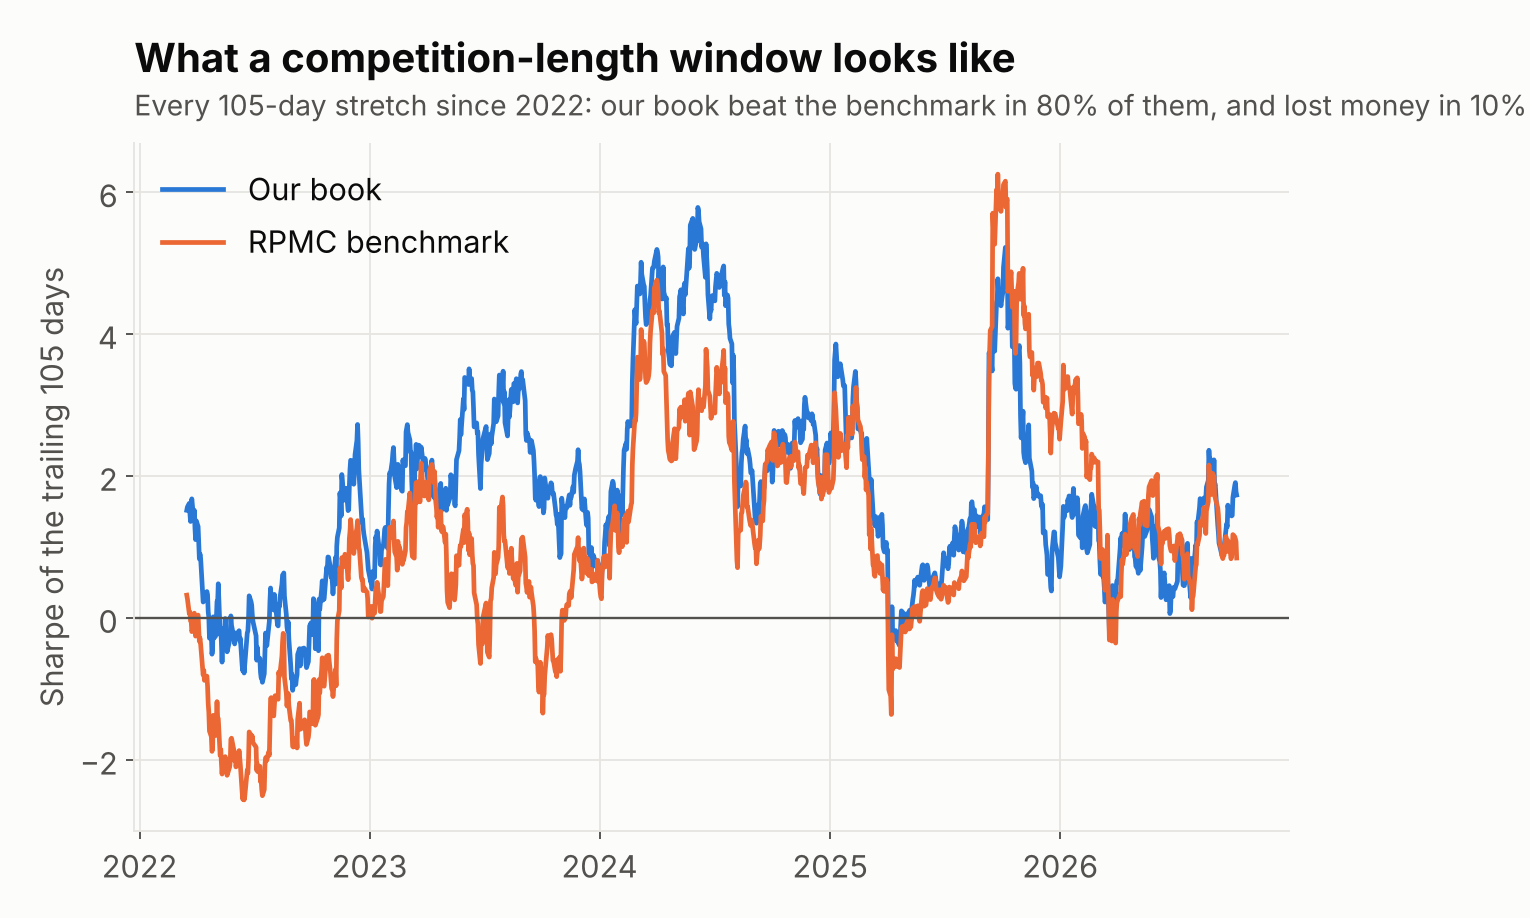
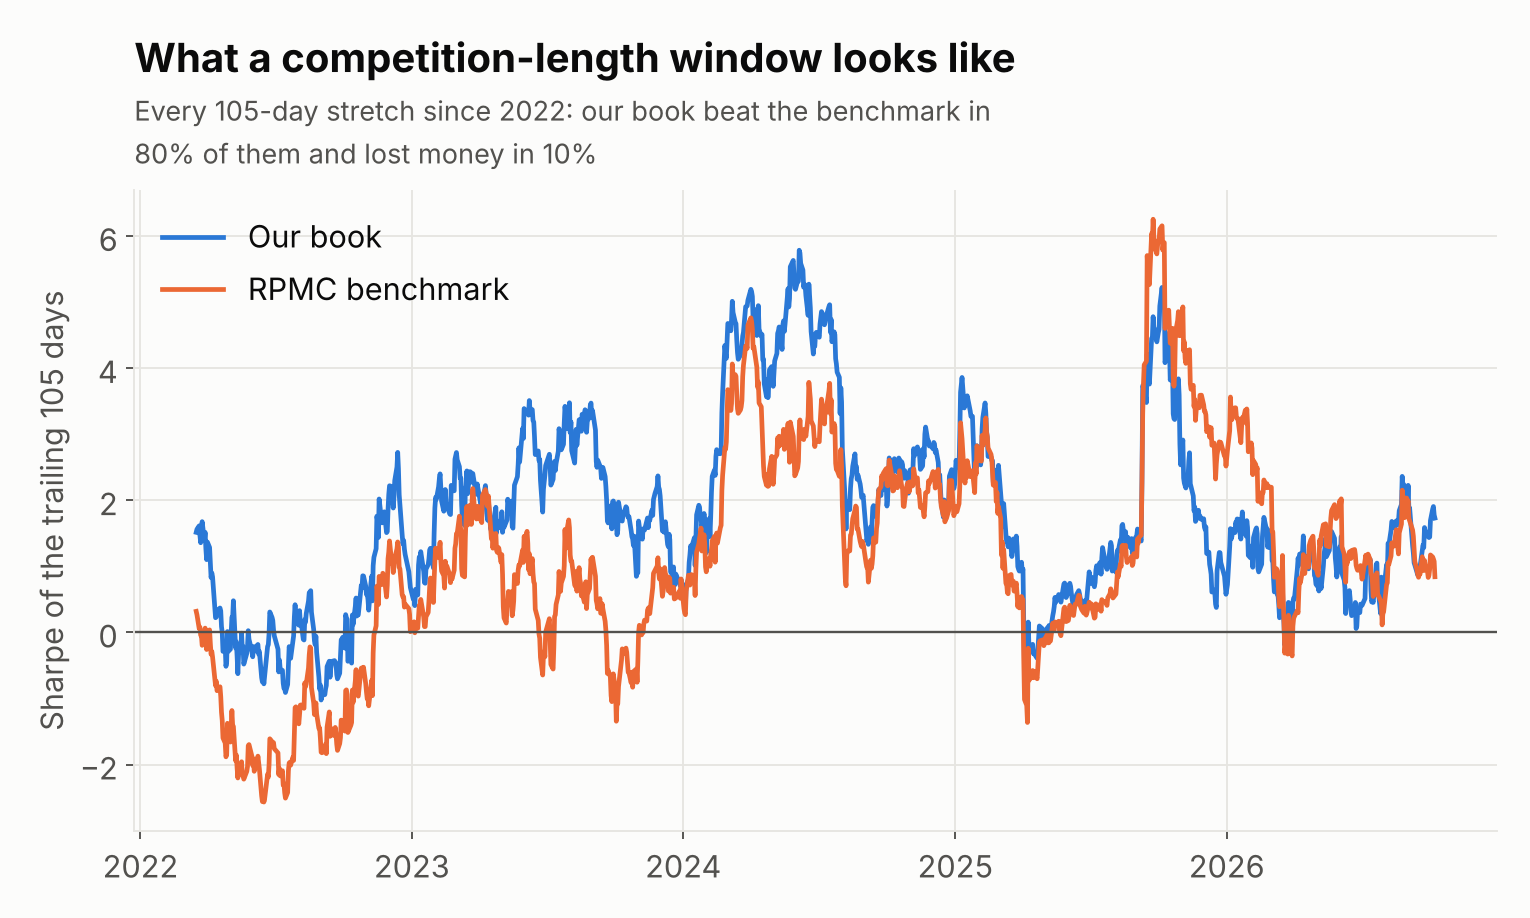
Fix chart subtitles and legend, refresh README and results header
Claude-Session: https://claude.ai/code/session_01VXMCK3Uvgp748VhLSJ7hMv

diff --git a/backtest/charts.py b/backtest/charts.py
@@ -4,6 +4,8 @@
 
 Book = portfolio.json["final_no_adbe"]. All numbers are backtests in CAD terms, picked with hindsight.
 """
+import textwrap
+
 import matplotlib
 
 matplotlib.use("Agg")
@@ -29,8 +31,9 @@ plt.rcParams.update({
 
 
 def finish(fig, ax, title, sub, name):
-    ax.set_title(title, pad=30)
-    ax.text(0, 1.03, sub, transform=ax.transAxes, color=INK2, fontsize=12, va="bottom")
+    sub = textwrap.fill(sub, 64)  # keep the subtitle well inside the figure edge
+    ax.set_title(title, pad=16 + 17 * (sub.count("\n") + 1))
+    ax.text(0, 1.02, sub, transform=ax.transAxes, color=INK2, fontsize=11.5, va="bottom", linespacing=1.3)
     fig.tight_layout()
     OUT.mkdir(exist_ok=True)
     fig.savefig(OUT / name, dpi=170)
@@ -69,7 +72,7 @@ def main():
     ax.legend(loc="upper left")
     ax.set_ylabel("Sharpe of the trailing 105 days")
     finish(fig, ax, "What a competition-length window looks like",
-           f"Every 105-day stretch since 2022: our book beat the benchmark in {np.mean(j[0] > j[1]):.0%} of them, and lost money in {np.mean(rm < 0):.0%}", "2_rolling_105d_sharpe.png")
+           f"Every 105-day stretch since 2022: our book beat the benchmark in {np.mean(j[0] > j[1]):.0%} of them and lost money in {np.mean(rm < 0):.0%}", "2_rolling_105d_sharpe.png")
 
     # 3. weight vs share of risk
     w = pd.Series(book)
@@ -87,7 +90,7 @@ def main():
     ax.set_yticklabels(risk.index)
     ax.grid(axis="y", visible=False)
     ax.set_xlabel("% of portfolio")
-    ax.legend(loc="lower right")
+    ax.legend(loc="upper right")
     finish(fig, ax, "Weight vs where the risk actually sits", "Share of portfolio variance, 5-year daily data. GLD, XLV, TBF are the diversifiers", "3_weight_vs_risk.png")
 
     # 4. Hormuz headline days
@@ -111,7 +114,7 @@ def main():
     ax.set_ylabel("Average same-day return")
     ax.set_ylim(min(e.min(), d.min()) - 1, max(e.max(), d.max()) + 1)
     ax.legend(loc="upper right")
-    finish(fig, ax, "Hormuz headline days: the book nets out", "LNG and TBF win on escalation, GLD on de-escalation. Few days, so treat as a sketch", "4_hormuz_headline_days.png")
+    finish(fig, ax, "Hormuz headline days: LNG and GLD offset", "LNG and TBF win on escalation, GLD on de-escalation, so the book ends up roughly flat. Nine days, treat as a sketch", "4_hormuz_headline_days.png")
     print("wrote", sorted(p.name for p in OUT.glob("*.png")))
 
 

diff --git a/README.md b/README.md
@@ -8,22 +8,27 @@ RPMC 2027 (Rotman Portfolio Management Competition) working repo.
 
 ## Backtest
 
+LSEG exports sit in the repo root (daily price files, `shv total return.xlsx`, six weekly `ROLLING PERFORMANCE*.xlsx` total-return files, `adobe.xlsx`);
+NVDA / LNG / AVGO total return comes from `backtest/dividends.csv`.
+
 ```
-pip install pandas numpy yfinance
+pip install pandas numpy openpyxl pypdf matplotlib
 cd backtest
-python backtest.py fetch --years 3     # needs internet: Yahoo (prices, USDCAD) + FRED (DGS3MO/DGS2/DGS10)
-python backtest.py run --years 3       # all portfolios in portfolio.json vs RPMC benchmark and SPY
-python backtest.py run --rate DGS2     # label regimes with the 2Y yield (or DGS3MO) instead of the 10Y
-python backtest.py selftest            # synthetic data, pipeline check only
+python backtest.py build                 # xlsx -> data/*.csv (prints the measured income yields)
+python backtest.py run --years 5 --income --portfolios current_8 final_no_adbe     # Sharpe by rate regime vs RPMC benchmark
+python analysis.py                       # risk contributions, swap options, GLD and Hormuz event checks
+python robustness.py                     # mechanical Hormuz days, split-sample ranking of variants
+python order_sheet.py --price NVDA=231.4 --fx 1.419      # share counts on CAD 1,000,000 (live-price overrides)
+python charts.py                         # PNGs in ../charts/
 ```
 
-Edit `backtest/portfolio.json` to test other weights (e.g. the NVDA-or-AVGO swap the team agreed on).
-Method and assumptions are in the docstring at the top of `backtest/backtest.py`.
+Books live in `backtest/portfolio.json` (`final_no_adbe` is the proposed one). `rpmc_calendar.ics` has the trade-by dates and catalysts.
+Method and assumptions are in the docstring at the top of `backtest/backtest.py`; results log in `backtest/RESULTS.md`.
 
 ## Rules to keep straight
 
-The official PDF says each security/ETF must be **<= 25%** of the portfolio and cash **< 10%**,
-with at least one trade every two weeks. The team notes say 20% for the position cap; the backtest
-checks against 25% (PDF). Confirm with the committee if the 20% figure came from somewhere official.
+The RPMC page and the PDF both say each security/ETF must be **<= 25%** of the portfolio (the team notes' 20% is not in the rules; the proposed book tops out at 19% anyway),
+cash **< 10%** from Oct 9, and at least one trade every two weeks (penalty otherwise). The benchmark is struck at the Oct 9 closing prices.
+The page says "most" S&P 500 / TSX Composite names plus "a few major ETFs" are tradable, so check ITRI, TBF, XLV and XIC.TO are available on RPM before ordering.
 
 Do not commit shared logins or passwords to this repo.

diff --git a/backtest/RESULTS.md b/backtest/RESULTS.md
@@ -1,3 +1,5 @@
+> Latest numbers are in the last section ("everything is now measured total return"). Earlier sections are kept as a log.
+
 # Backtest results (LSEG daily data to 2026-10-08, CAD terms)
 
 Reproduce: `cd backtest && python backtest.py build && python backtest.py run --years 5 --income`
